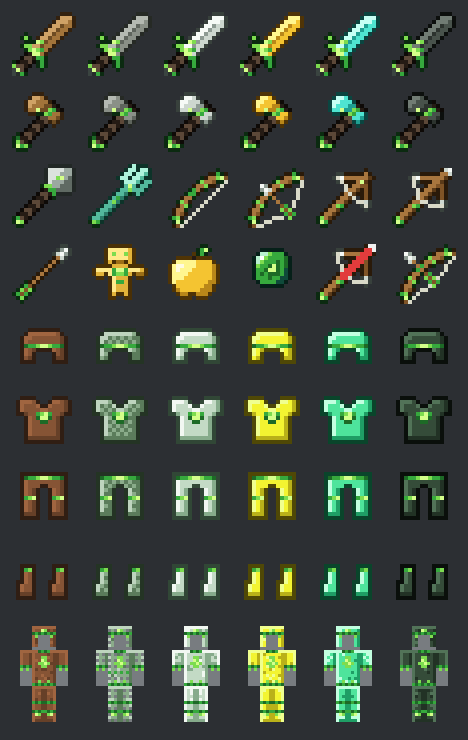
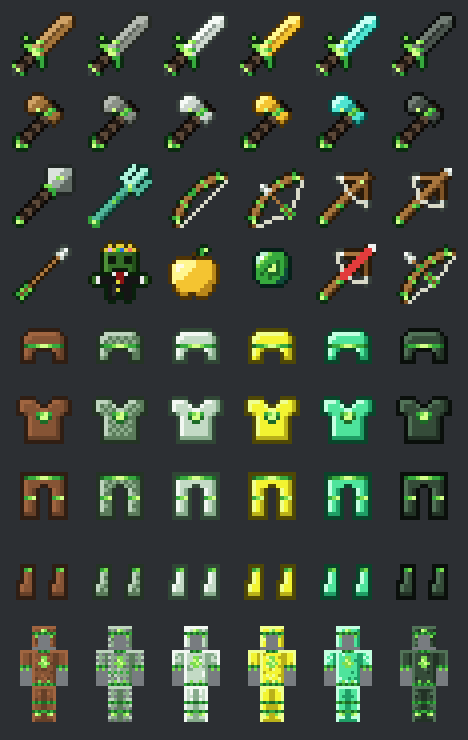
Add skin totem and green weapon animations to Green PvP
Totem of undying is redrawn from the player skin (gem crown, green
face, black suit, red tie, green hands) with a breathing green outline
and twinkling crown gems. Swords, axes, mace, bow and crossbow get an
animated green glint; the trident gets a special animation where green
lightning climbs the shaft, the prongs flash and sparks crackle.
Adds preview-animations.gif.

Claude-Session: https://claude.ai/code/session_01VVqcZhc2jZ78JDiRF6y6XG

Changed region(s): [[0.1795, 0.3108, 0.3291, 0.4351], [0.1795, 0.2797, 0.2094, 0.3108]]

diff --git a/green-pvp-pack/generate.py b/green-pvp-pack/generate.py
@@ -12,6 +12,8 @@ Design rules, so PvP gear stays readable at a glance:
     vanilla, and chainmail keeps its see-through mesh.
   * Item shapes (sword vs. axe vs. mace...) match vanilla silhouettes.
   * Potions and tipped arrows are left alone: their colors encode the effect.
+  * Animations (green glint on weapons, lightning on the trident, aura on
+    the totem) only add green on top for part of each loop.
 
 Usage: python3 generate.py [output_dir]   (default: ./pack)
 Requires Pillow.
@@ -21,6 +23,7 @@ from __future__ import annotations
 
 import colorsys
 import json
+import math
 import random
 import sys
 from pathlib import Path
@@ -104,13 +107,16 @@ LEATHER_DEFAULT_TINT = (0xA0, 0x65, 0x40)
 
 MACE = palette("#dbe2dd", "#9ba8a0", "#5f6a63", "#222826", shine="#ffffff")
 TRIDENT = palette("#aef3dc", "#53b99c", "#2b7b67", "#0d3329", shine="#e8fff7")
-TOTEM = palette("#ffe98a", "#e2b33a", "#9c6f17", "#4a3005", shine="#fff7d1")
 PEARL = palette("#b8f0d0", "#3aa071", "#0f4a3a", "#062019", shine="#ffffff")
 SHIELD_WOOD = palette("#8a6034", "#6d4a26", "#4f3519", "#24170a")
 
 # --------------------------------------------------------------------------
 # Sprite helpers
 # --------------------------------------------------------------------------
+
+
+# Marks pixels added by Sprite.outline(), so animations can tell edges apart.
+OUTLINE: dict = {}
 
 
 class Sprite:
@@ -128,12 +134,12 @@ class Sprite:
     def outline(self):
         added = {}
         for (x, y), (_, pal) in self.px.items():
-            if pal is None:
+            if pal is None or pal is OUTLINE:
                 continue
             for dx, dy in ((1, 0), (-1, 0), (0, 1), (0, -1)):
                 n = (x + dx, y + dy)
                 if 0 <= n[0] < self.w and 0 <= n[1] < self.h and n not in self.px and n not in added:
-                    added[n] = (pal["outline"], None)
+                    added[n] = (pal["outline"], OUTLINE)
         self.px.update(added)
         return self
 
@@ -416,24 +422,47 @@ def crossbow(state: str):
 # Misc PvP items
 # --------------------------------------------------------------------------
 
+# Totem of undying drawn from the player's skin: gold crown with four gems,
+# green face, black suit with white collar, red tie and yellow buttons,
+# white cuffs and green hands, in the totem's arms-out pose.
+SKIN_GREEN = palette("#4f9138", "#346d27", "#22501a", "#0b1f08")
+CROWN = palette("#f6e44c", "#e4cc38", "#b49a1c", "#3d2f04")
+SUIT = palette("#2c2c2c", "#151515", "#0b0b0b", "#08200c")
+SHIRT = palette("#ffffff", "#ececec", "#c4c4c4", "#08200c")
+
 TOTEM_ROWS = [
     "................",
-    ".....oooooo.....",
-    "....oLLLLLMo....",
-    "....oLeLLeMo....",
-    "....oLLLLLMo....",
-    "....oMoDDoMo....",
-    "..ooooMMMMoooo..",
-    ".oLLLLGEEGLLLMo.",
-    ".oMMoLGeeGMoDDo.",
-    "..oo.oLMMMo.oo..",
-    ".....oLGGMo.....",
-    ".....oLMMMo.....",
-    ".....oLMMMo.....",
-    ".....oMooMo.....",
-    ".....oo..oo.....",
+    ".....Y.YY.Y.....",
+    "....YPYNBYRY....",
+    "....LGGGGGGD....",
+    "....LKKGGKKD....",
+    "....LKKGGKKD....",
+    "....LGGGGGGD....",
+    "....LGKKKKGD....",
+    "......WTTW......",
+    ".HWSSSSTTSSSSWH.",
+    ".HWSSSSUTSSSSWH.",
+    ".....SsSSSS.....",
+    ".....SsUSSS.....",
+    ".....Ss..SS.....",
+    ".....SS..SS.....",
     "................",
 ]
+
+TOTEM_CODES = {
+    "Y": (CROWN["mid"], CROWN), "y": (CROWN["dark"], CROWN),
+    "P": (rgba("#c63ad6"), CROWN), "N": (rgba("#3cc43c"), CROWN),
+    "B": (rgba("#2e6fe0"), CROWN), "R": (rgba("#f07060"), CROWN),
+    "L": (SKIN_GREEN["light"], SKIN_GREEN), "G": (SKIN_GREEN["mid"], SKIN_GREEN),
+    "D": (SKIN_GREEN["dark"], SKIN_GREEN), "K": (rgba("#0d1a0b"), SKIN_GREEN),
+    "H": (SKIN_GREEN["mid"], SKIN_GREEN),
+    "W": (SHIRT["mid"], SHIRT), "T": (rgba("#8c1414"), SHIRT), "U": (rgba("#dcd43c"), SUIT),
+    "S": (SUIT["mid"], SUIT), "s": (SUIT["light"], SUIT),
+}
+
+
+def totem():
+    return from_ascii(TOTEM_ROWS, SUIT, extra=TOTEM_CODES).outline()
 
 GOLDEN_APPLE_ROWS = [
     "................",
@@ -776,6 +805,116 @@ def shield():
     return img
 
 
+
+# --------------------------------------------------------------------------
+# Animations (vertical frame strips + .png.mcmeta, no mods needed)
+# --------------------------------------------------------------------------
+
+FRAME_TIME = 2  # game ticks per frame; the game interpolates between frames
+
+
+def mix(color, target, amount):
+    amount = max(0.0, min(1.0, amount))
+    return tuple(round(c + (t - c) * amount) for c, t in zip(color[:3], target[:3])) + (color[3],)
+
+
+def render_strip(sprite, frames, effect, extra=None):
+    """Renders `frames` frames stacked vertically. effect(f, x, y, color, pal)
+    recolors existing pixels; extra(f) can add pixels such as sparks."""
+    strip = Image.new("RGBA", (sprite.w, sprite.h * frames), (0, 0, 0, 0))
+    for f in range(frames):
+        for (x, y), (color, pal) in sprite.px.items():
+            strip.putpixel((x, y + f * sprite.h), effect(f, x, y, color, pal))
+        for (x, y), color in (extra(f) if extra else {}).items():
+            strip.putpixel((x, y + f * sprite.h), color)
+    return strip
+
+
+NEUTRAL = (HANDLE, POMMEL, STRING)
+
+
+def weapon_glint(frames=24):
+    """A green glint sweeps along the weapon (bottom-left to top-right), then
+    the emeralds and vines pulse while it waits to sweep again. Material
+    pixels only pick up green inside the moving band, so the material color
+    stays readable for most of the cycle."""
+    sweep_frames = frames * 0.6
+
+    def effect(f, x, y, color, pal):
+        s = x - y
+        band = 0.0
+        if f < sweep_frames:
+            center = -20 + 40 * f / sweep_frames
+            band = max(0.0, 1.0 - abs(s - center) / 3.5)
+        pulse = 0.5 - 0.5 * math.cos(2 * math.pi * f / frames)
+        if pal is GREEN:
+            return mix(color, GREEN["glow"], 0.45 * pulse + 0.5 * band)
+        if pal is OUTLINE:
+            return mix(color, GREEN["mid"], 0.75 * band)
+        if pal is None or pal in NEUTRAL:
+            return mix(color, GREEN["light"], 0.3 * band)
+        return mix(color, GREEN["glow"], 0.65 * band)
+
+    return effect
+
+
+def trident_storm(sprite, frames=32):
+    """Special trident animation: a bolt of green energy climbs the shaft,
+    the prongs flash, sparks crackle around the tips, then it fades into a
+    soft glow."""
+    climb_end, flash_end = 14, 24
+    prongs = [(x, y) for (x, y), (_, pal) in sprite.px.items() if pal is not OUTLINE and x - y >= 7]
+    spark_spots = sorted({
+        (x + dx, y + dy)
+        for x, y in prongs
+        for dx in (-2, -1, 0, 1, 2) for dy in (-2, -1, 0, 1, 2)
+        if 0 <= x + dx < 16 and 0 <= y + dy < 16 and (x + dx, y + dy) not in sprite.px
+    })
+
+    def effect(f, x, y, color, pal):
+        s = x - y
+        if f < climb_end:
+            head = -14 + 27 * f / (climb_end - 1)
+            if s > head + 1.5:
+                glow = 0.0
+            elif s >= head - 1.5:
+                glow = 0.9
+            else:
+                glow = max(0.0, 0.5 * (1 - (head - s) / 7))  # fading trail
+        elif f < flash_end:
+            decay = 1 - (f - climb_end) / (flash_end - climb_end)
+            glow = (0.7 if s >= 5 else 0.3) * decay
+        else:
+            glow = 0.15 + 0.1 * math.sin(math.pi * (f - flash_end) / (frames - flash_end))
+        target = GREEN["mid"] if pal is OUTLINE else GREEN["glow"]
+        return mix(color, target, glow)
+
+    def sparks(f):
+        if not climb_end <= f < flash_end:
+            return {}
+        rng = random.Random(f"trident-spark-{f}")
+        count = 5 if f < climb_end + 4 else 2
+        chosen = rng.sample(spark_spots, min(count, len(spark_spots)))
+        return {p: (GREEN["glow"] if i % 2 == 0 else GREEN["light"]) for i, p in enumerate(chosen)}
+
+    return render_strip(sprite, frames, effect, sparks)
+
+
+def totem_aura(frames=24):
+    """The totem's outline breathes green; the crown gems twinkle in turn."""
+    gems = [(5, 2), (7, 2), (8, 2), (10, 2)]  # P, N, B, R in TOTEM_ROWS
+
+    def effect(f, x, y, color, pal):
+        phase = 2 * math.pi * f / frames
+        if pal is OUTLINE:
+            return mix(color, GREEN["light"], 0.5 - 0.5 * math.cos(phase))
+        if (x, y) in gems:
+            lit = gems.index((x, y)) == (f * len(gems)) // frames
+            return mix(color, (255, 255, 255, 255), 0.55 if lit else 0.0)
+        return color
+
+    return effect
+
 # --------------------------------------------------------------------------
 # Output
 # --------------------------------------------------------------------------
@@ -796,18 +935,27 @@ def build(root: Path) -> dict[str, Image.Image]:
         items[name] = img
         save(img, root, f"{item_dir}{name}.png")
 
+    def animated(name, strip):
+        """Saves an animated texture; previews get the first frame and the strip."""
+        items[name] = strip.crop((0, 0, 16, 16))
+        items[f"anim:{name}"] = strip
+        save(strip, root, f"{item_dir}{name}.png")
+        meta = {"animation": {"frametime": FRAME_TIME, "interpolate": True}}
+        (root / f"{item_dir}{name}.png.mcmeta").write_text(json.dumps(meta, indent=2) + "\n")
+
+    glint = weapon_glint()
     for material, pal in TOOL.items():
-        item(f"{material}_sword", sword(pal).image())
-        item(f"{material}_axe", axe(pal).image())
-    item("mace", mace().image())
-    item("trident", trident().image())
-    item("bow", bow(None).image())
+        animated(f"{material}_sword", render_strip(sword(pal), 24, glint))
+        animated(f"{material}_axe", render_strip(axe(pal), 24, glint))
+    animated("mace", render_strip(mace(), 24, glint))
+    animated("trident", trident_storm(trident()))
+    animated("bow", render_strip(bow(None), 24, glint))
     for i in range(3):
-        item(f"bow_pulling_{i}", bow(i).image())
+        animated(f"bow_pulling_{i}", render_strip(bow(i), 24, glint))
     for state in ("standby", "pulling_0", "pulling_1", "pulling_2", "arrow", "firework"):
-        item(f"crossbow_{state}", crossbow(state).image())
+        animated(f"crossbow_{state}", render_strip(crossbow(state), 24, glint))
     item("arrow", arrow().image())
-    item("totem_of_undying", from_ascii(TOTEM_ROWS, TOTEM).image())
+    animated("totem_of_undying", render_strip(totem(), 24, totem_aura()))
     item("golden_apple", from_ascii(GOLDEN_APPLE_ROWS, TOOL["golden"]).image())
     item("ender_pearl", from_ascii(ENDER_PEARL_ROWS, PEARL).image())
 
@@ -843,7 +991,7 @@ def build(root: Path) -> dict[str, Image.Image]:
 
     save(shield(), root, "assets/minecraft/textures/entity/shield_base_nopattern.png")
 
-    icon = items["iron_sword"].resize((64, 64), Image.NEAREST)
+    icon = items["iron_sword"].resize((64, 64), Image.NEAREST)  # first frame
     save(icon, root, "pack.png")
     mcmeta = {
         "pack": {

diff --git a/green-pvp-pack/preview.py b/green-pvp-pack/preview.py
@@ -91,6 +91,33 @@ def main(out_path):
                               (12 + c * CELL + (CELL - fig_w) // 2, y))
     sheet.save(out_path)
     print(f"Wrote {out_path}")
+    animation_gif(items, str(Path(out_path).with_name("preview-animations.gif")))
+
+
+def animation_gif(items, out_path):
+    """Loops every animated texture together (without the game's frame interpolation)."""
+    names = [k[len("anim:"):] for k in items if k.startswith("anim:")]
+    order = ["totem_of_undying", "trident"] + [n for n in names if n.endswith("_sword")] + \
+            [n for n in names if n.endswith("_axe")] + ["mace", "bow", "bow_pulling_2", "crossbow_arrow"]
+    names = [n for n in order if f"anim:{n}" in items]
+    strips = {n: items[f"anim:{n}"] for n in names}
+    counts = {n: s.height // 16 for n, s in strips.items()}
+    total = 1
+    for c in counts.values():
+        total = total * c // __import__("math").gcd(total, c)
+    scale, cols = 5, 6
+    cell = 16 * scale + 8
+    rows = (len(names) + cols - 1) // cols
+    frames = []
+    for f in range(total):
+        frame = Image.new("RGBA", (cols * cell, rows * cell), BACKGROUND)
+        for i, n in enumerate(names):
+            k = f % counts[n]
+            sprite = strips[n].crop((0, 16 * k, 16, 16 * k + 16)).resize((16 * scale, 16 * scale), Image.NEAREST)
+            frame.alpha_composite(sprite, ((i % cols) * cell + 4, (i // cols) * cell + 4))
+        frames.append(frame.convert("RGB"))
+    frames[0].save(out_path, save_all=True, append_images=frames[1:], duration=100, loop=0)
+    print(f"Wrote {out_path} ({total} frames)")
 
 
 if __name__ == "__main__":

diff --git a/green-pvp-pack/README.md b/green-pvp-pack/README.md
@@ -7,15 +7,34 @@ crossguard and pommel set with an emerald.
 
 ![All textures](preview.png)
 
+![Animations](preview-animations.gif)
+
 ## What's included
 
 | Group | Items |
 | --- | --- |
 | Swords and axes | wooden, stone, iron, golden, diamond, netherite |
 | Other weapons | mace, trident (inventory icon), bow (+3 pull stages), crossbow (standby, 3 pull stages, loaded arrow, loaded firework), arrow, shield |
-| Consumables | totem of undying, golden apple (the enchanted one uses the same texture), ender pearl |
+| Totem | totem of undying drawn from the player skin: crown with gems, green face, black suit, red tie, green hands |
+| Consumables | golden apple (the enchanted one uses the same texture), ender pearl |
 | Armor icons | leather (dyeable, green parts stay green), chainmail, iron, golden, diamond, netherite |
 | Worn armor | all six materials, for both 1.21.1 and 1.21.2+ texture paths |
+
+## Animations
+
+All animations use the game's built-in animated textures (`.png.mcmeta`), so they work
+without mods or OptiFine.
+
+- **Swords, axes, mace, bow and crossbow:** a green glint sweeps from the handle to the
+  tip, then the emeralds and vines pulse until the next sweep (2.4 second loop). The
+  glint only covers a narrow band, so the material color shows most of the time.
+- **Trident (special):** a bolt of green energy climbs the shaft, the prongs flash,
+  sparks crackle around the tips, and then it settles into a soft glow (3.2 second loop).
+- **Totem:** its outline breathes green, and the four crown gems twinkle in turn. The
+  animation also plays in the totem pop when it saves you.
+
+Animated textures show in the inventory, in your hand and on dropped items. The thrown or
+held 3D trident model uses an entity texture, which the game can't animate.
 
 ## Telling gear apart
 

diff --git a/README.md b/README.md
@@ -4,4 +4,4 @@
 | --- | --- |
 | [`item-esp-mod/`](item-esp-mod/) | Fabric client mod (1.21.1): ESP boxes, tracers and labels for every dropped item, with an adjustable chunk radius and a full settings UI. Single-player only. |
 | [`green-shaders/`](green-shaders/) | OptiFine/Iris shader pack with a green color grade (Emerald, Night Vision and Terminal styles) that keeps PvP gear colors readable. |
-| [`green-pvp-pack/`](green-pvp-pack/) | Resource pack: vine-forged green swords, axes, bows, crossbows, armor and other PvP items, with every material still easy to tell apart. Pairs with Green Shaders. |
+| [`green-pvp-pack/`](green-pvp-pack/) | Resource pack: vine-forged green swords, axes, bows, crossbows, armor and other PvP items with green animations (special lightning trident), a totem drawn from the player skin, and every material still easy to tell apart. Pairs with Green Shaders. |
